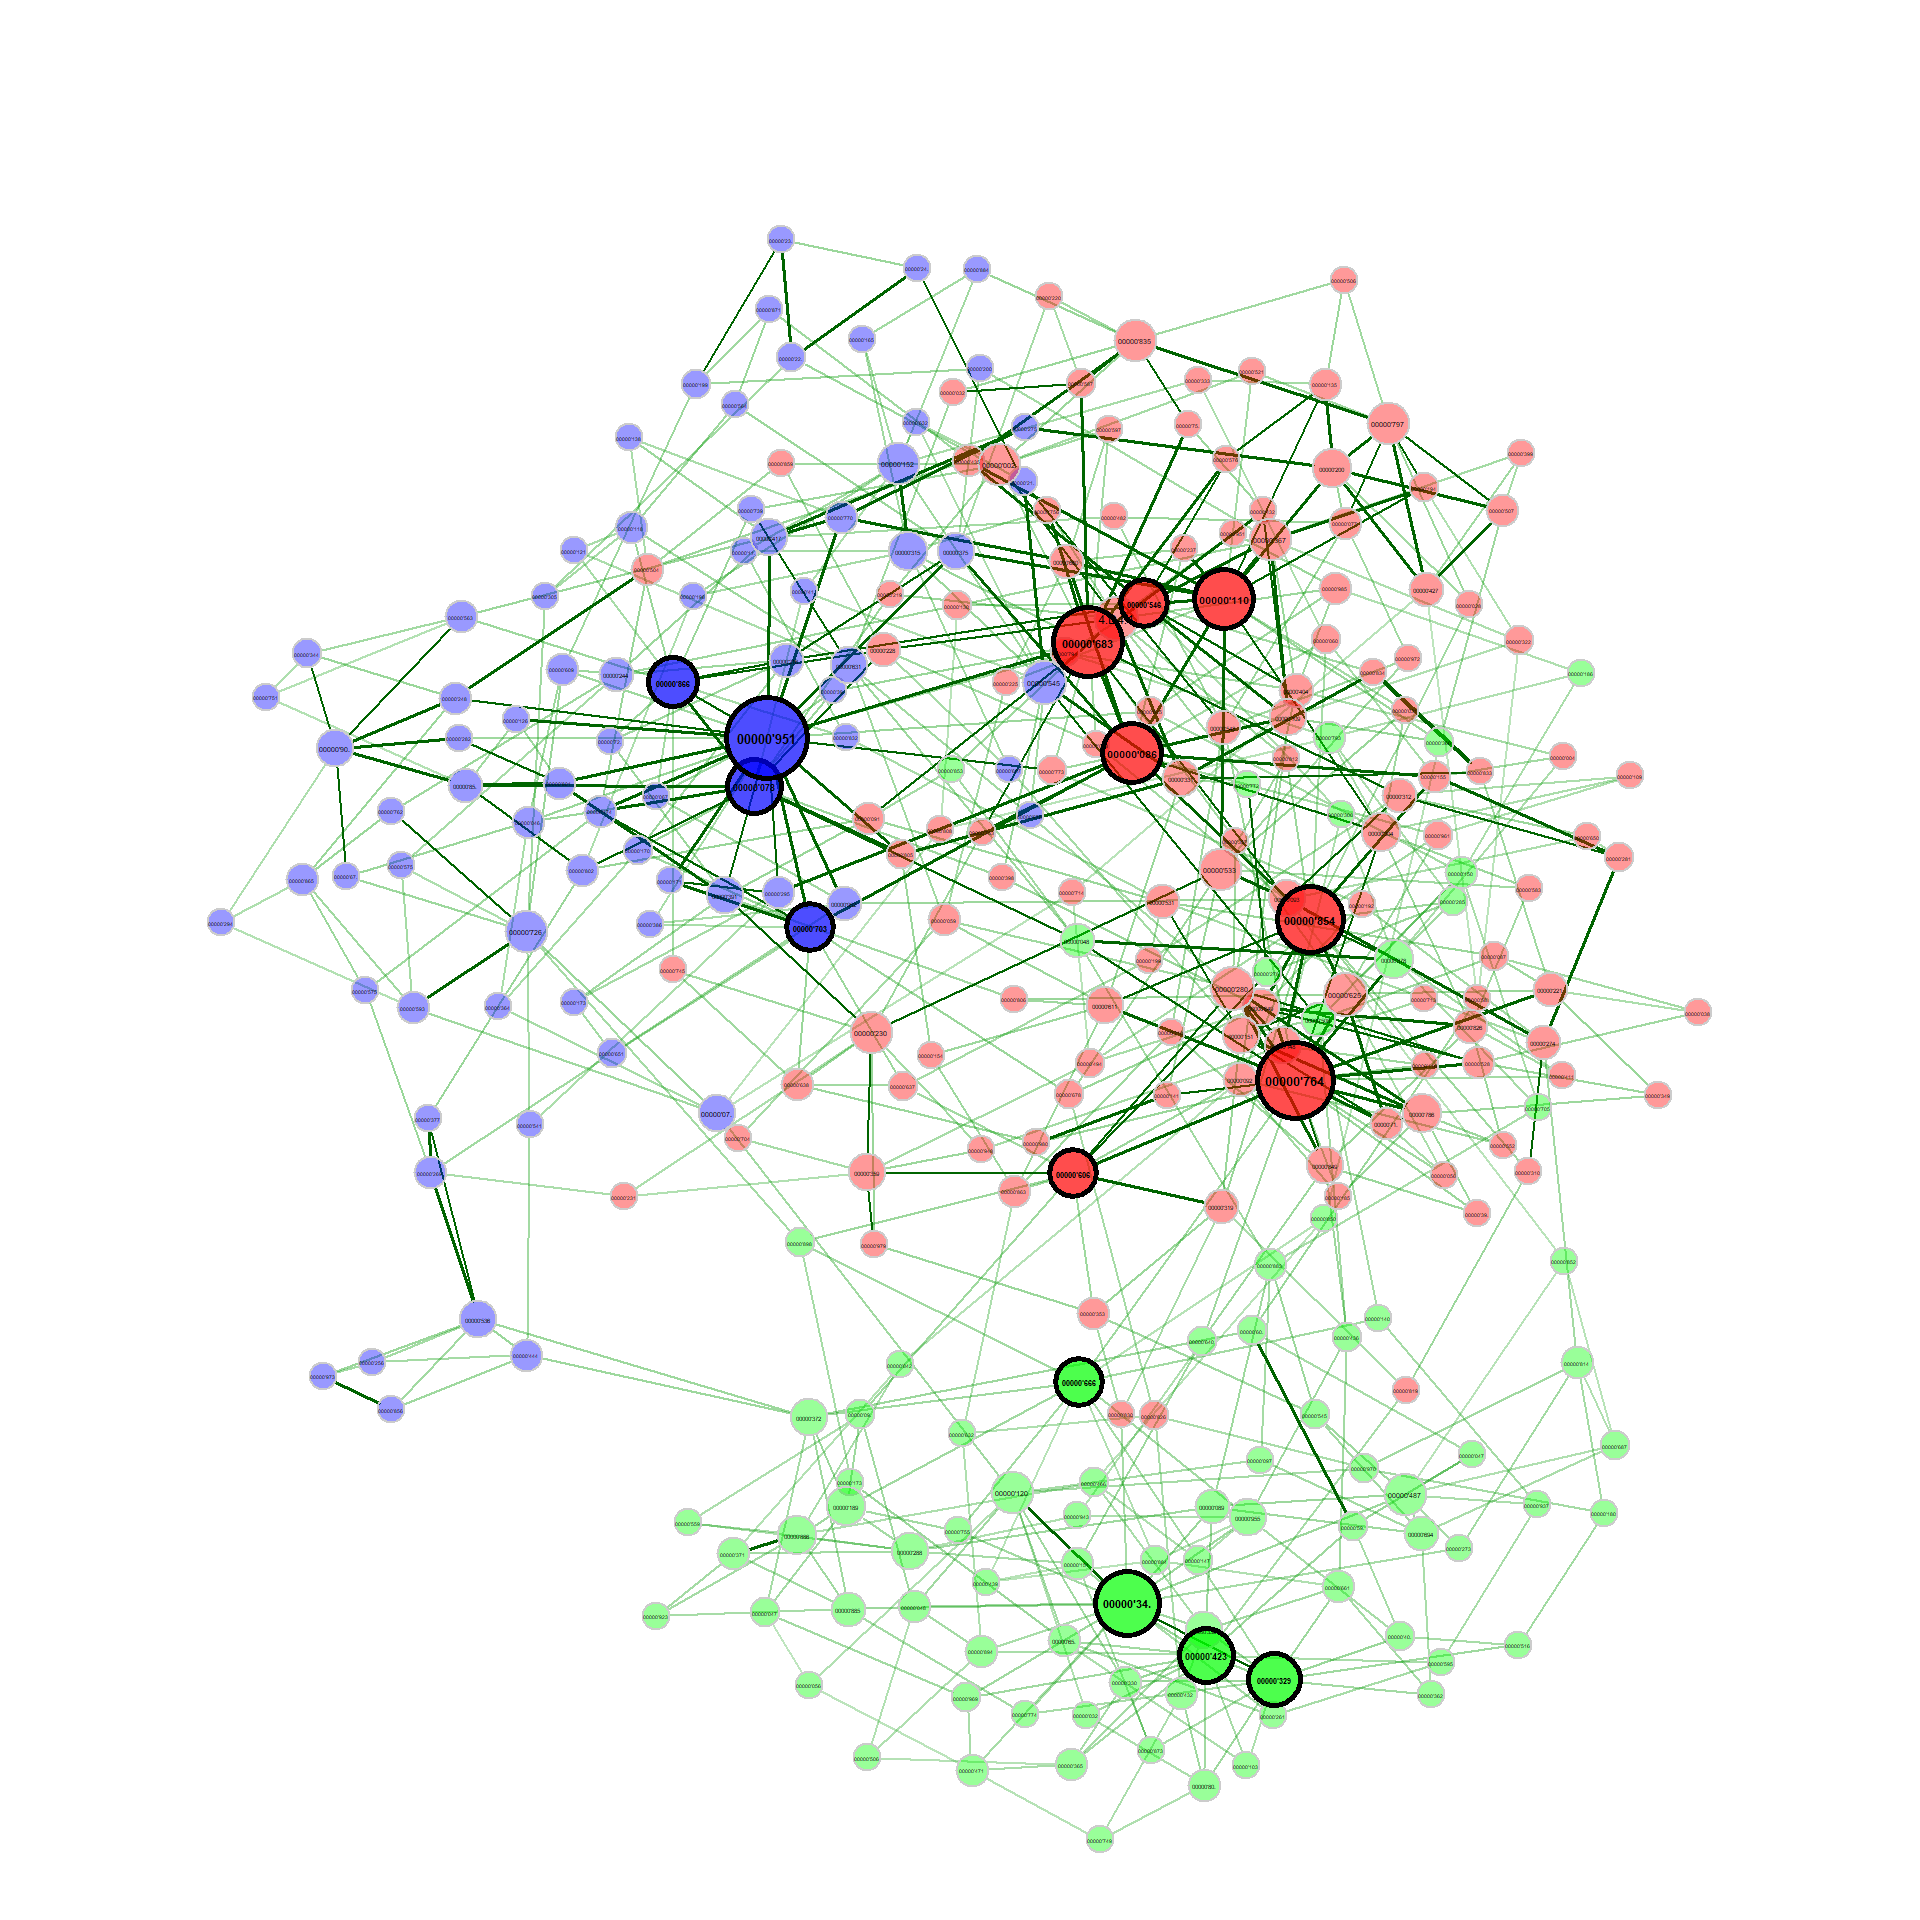
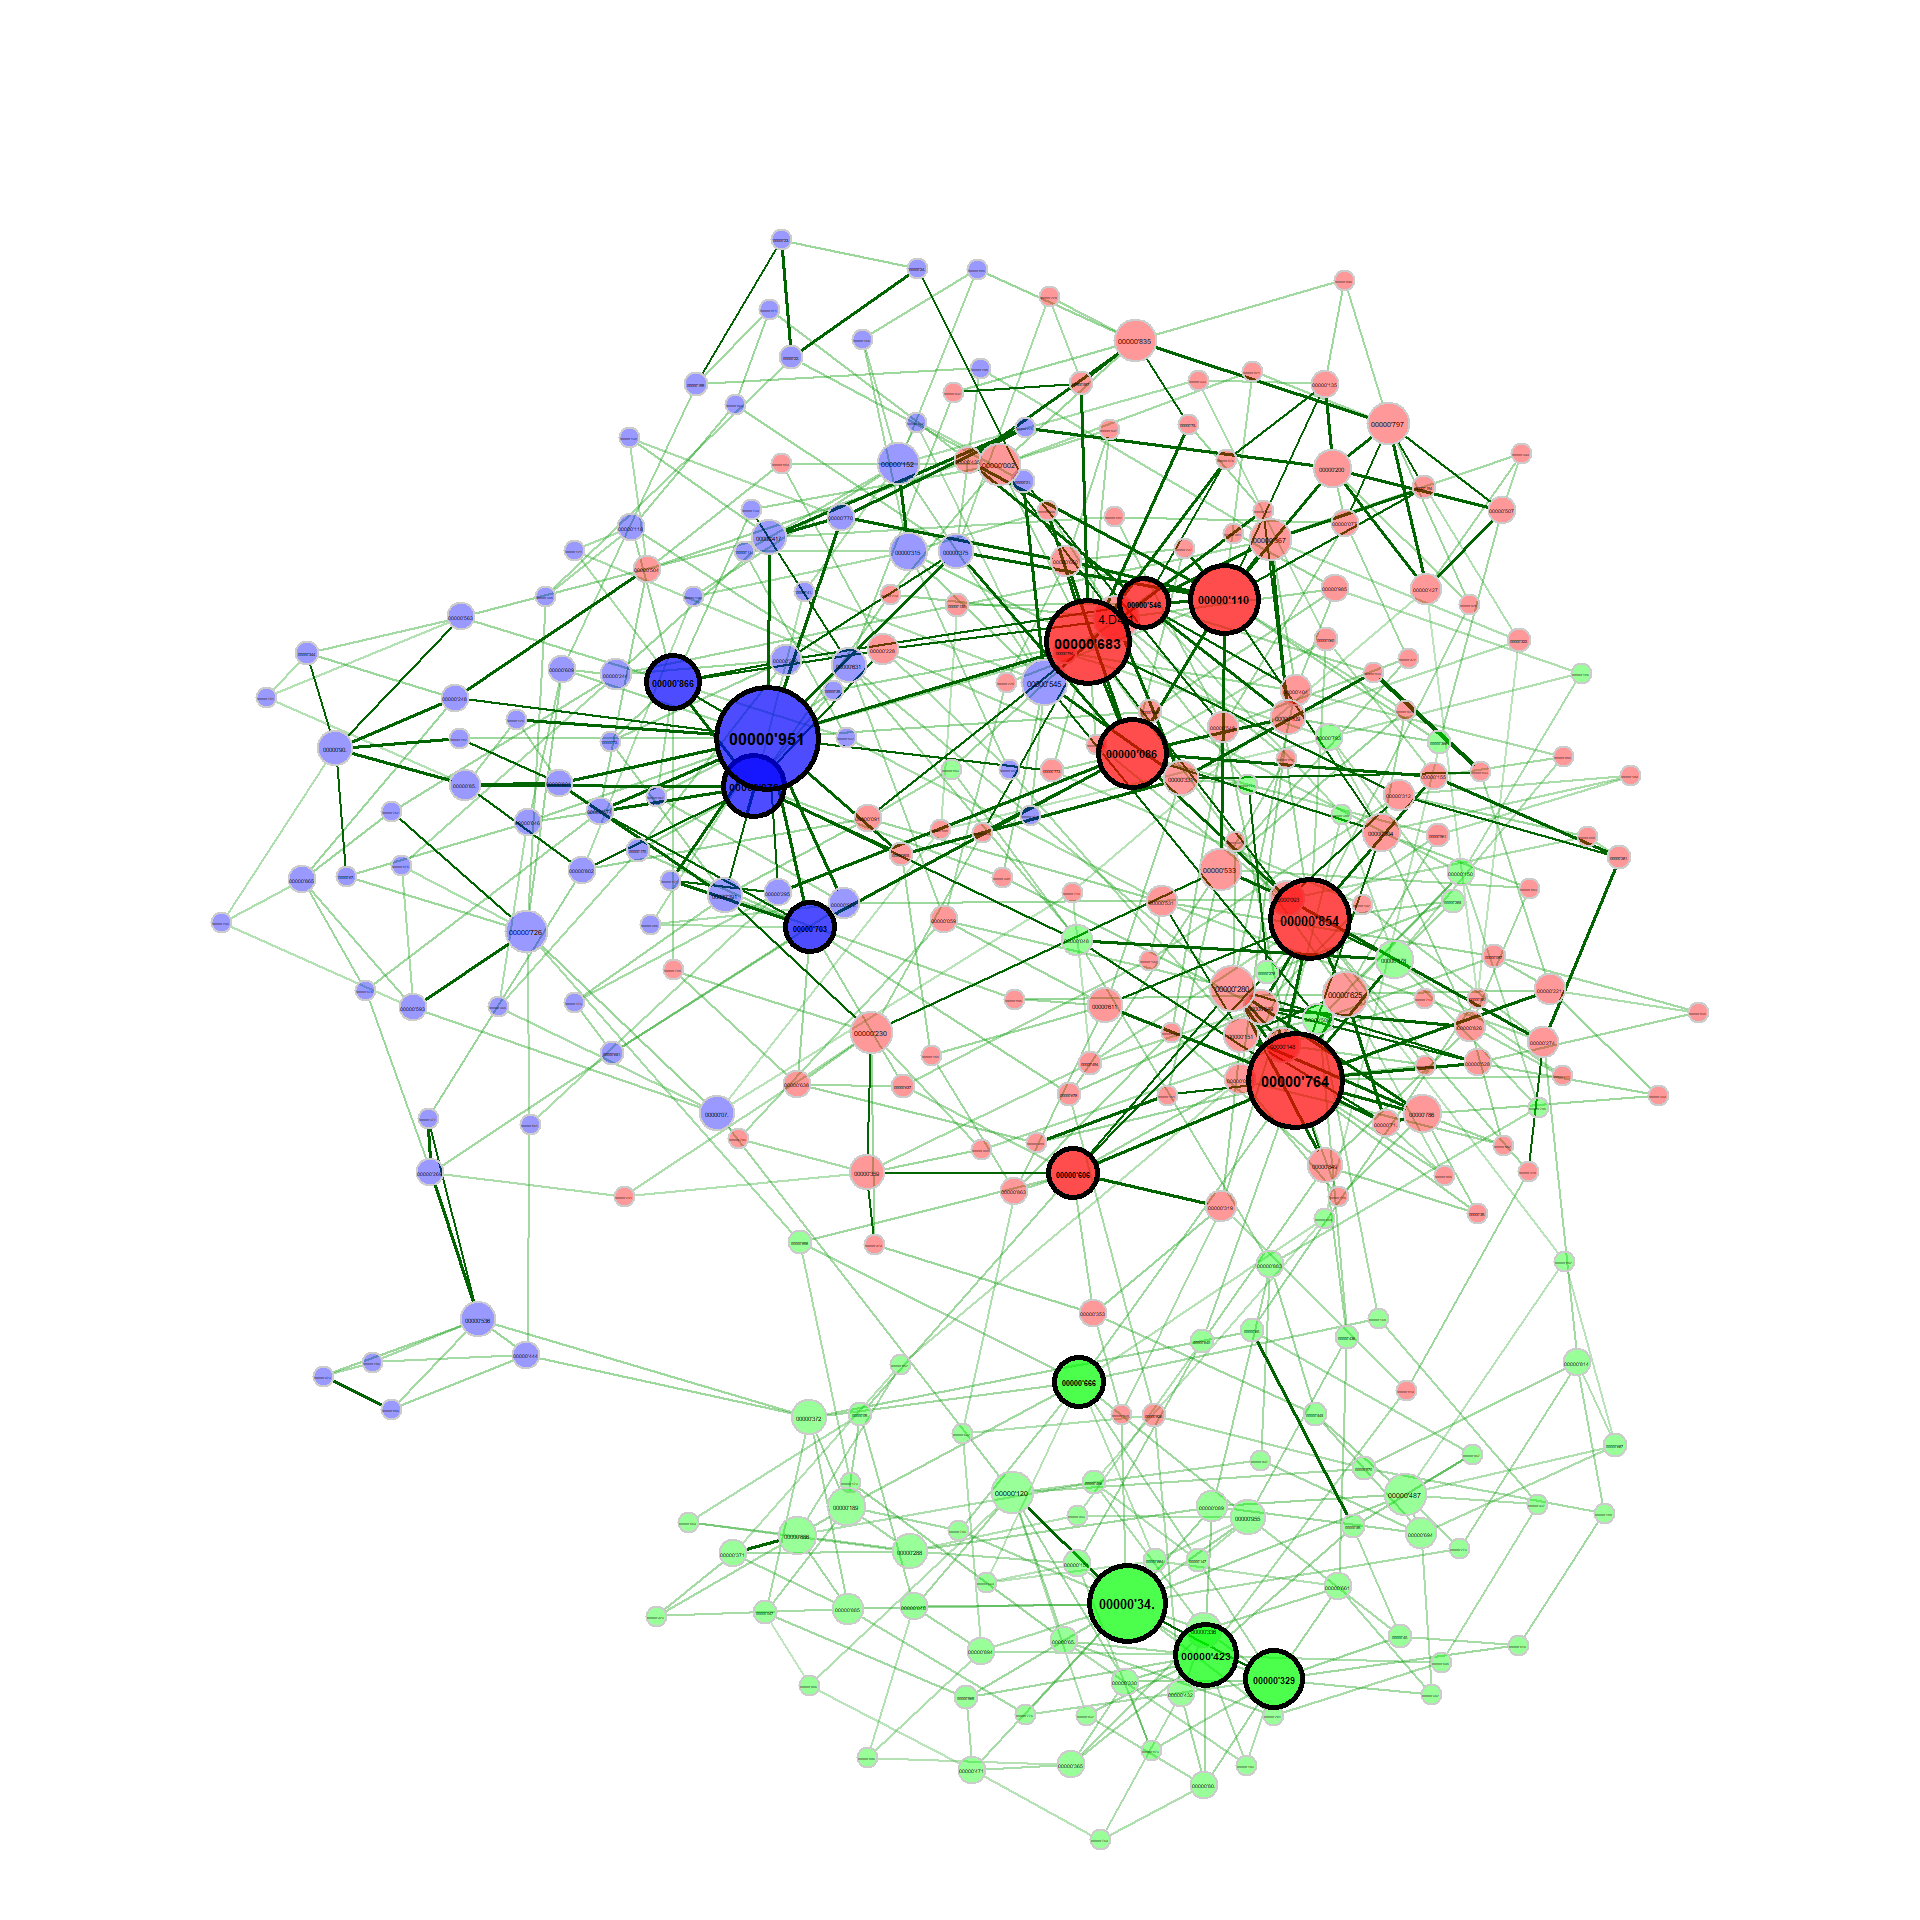
update readme file

diff --git a/readme.md b/readme.md
@@ -47,7 +47,7 @@ together with some information on the implementation in R.
     package)
 -   SpiecEasi ([`SpiecEasi`](https://github.com/zdk123/SpiecEasi)
     package)
--   SPRING ([`SPRING`](https://github.com/zdk123/SpiecEasi) package)
+-   SPRING ([`SPRING`](https://github.com/GraceYoon/SPRING) package)
 -   gCoda ([R script on GitHub](https://github.com/huayingfang/gCoda))
 -   propr
     ([`propr`](https://cran.r-project.org/web/packages/propr/index.html)
@@ -185,7 +185,73 @@ Clusters are identified using greedy modularity optimization (by
 
 ``` r
 props_single <- netAnalyze(net_single, clustMethod = "cluster_fast_greedy")
+
+summary(props_single, numbNodes = 5L)
 ```
+
+    ## 
+    ## Global network properties:
+    ## ``````````````````````````
+    ##                              
+    ## average path length   2.21645
+    ## clustering coeff.     0.31939
+    ## modularity            0.80313
+    ## edge density          0.01425
+    ## vertex connectivity   0.00000
+    ## edge connectivity     0.00000
+    ## 
+    ## 
+    ## Clusters:
+    ## `````````
+    ##                                              
+    ## name:  0  1  2 3  4  5 6 7 8 9 10 11 12 13 14
+    ## freq: 34 15 12 9 15 12 8 6 3 2  2  2  2  3  2
+    ## 
+    ## 
+    ## Hubs (in alphabetical/numerical order):
+    ## `````         
+    ##  "165261"
+    ##  "288710"
+    ##  "292134"
+    ##  "301645"
+    ##  "302025"
+    ##  "305760"
+    ##  "469991"
+    ## 
+    ## 
+    ## Centrality measures (in decreasing order):
+    ## ```````````````````
+    ## Degree:
+    ##               
+    ## 246752 0.04762
+    ## 288710 0.04762
+    ## 301645 0.04762
+    ## 329096 0.04762
+    ## 292134 0.04762
+    ## 
+    ## Betweenness centrality:
+    ##               
+    ## 329096 0.02463
+    ## 288710 0.02425
+    ## 305760 0.01867
+    ## 364563 0.01829
+    ## 469991 0.01333
+    ## 
+    ## Closeness centrality:
+    ##               
+    ## 288710 0.23454
+    ## 329096 0.23366
+    ## 292134 0.23226
+    ## 301645 0.22453
+    ## 305760 0.22084
+    ## 
+    ## Eigenvector centrality:
+    ##               
+    ## 288710 1.00000
+    ## 292134 0.98895
+    ## 165261 0.86250
+    ## 301645 0.85609
+    ## 469991 0.81980
 
 **Visualize the network**
 
@@ -314,7 +380,8 @@ props_season <- netAnalyze(net_season, clustMethod = "cluster_fast_greedy")
 
 plot(props_season, sameLayout = TRUE, layoutGroup = 1,
      nodeSize = "eigenvector", cexNodes = 1.5, cexLabels = 1.8,
-     groupNames = c("Seasonal allergies", "No seasonal allergies"))
+     groupNames = c("Seasonal allergies", "No seasonal allergies"),
+     hubBorderCol  = "gray40")
 ```
 
 ![](readme_files/figure-markdown_github/example8-1.png)
@@ -326,7 +393,8 @@ networks are removed).
 ``` r
 plot(props_season, rmSingles = "inboth", sameLayout = TRUE, layoutGroup = 1,
      nodeSize = "eigenvector", cexNodes = 1.5, cexLabels = 1.8,
-     groupNames = c("Seasonal allergies", "No seasonal allergies"))
+     groupNames = c("Seasonal allergies", "No seasonal allergies"),
+     hubBorderCol  = "gray40")
 ```
 
 ![](readme_files/figure-markdown_github/example8_2-1.png)
@@ -357,11 +425,11 @@ summary(comp_season, showCentr = c("degree", "eigen"), numbTaxa = 5)
     ## Jaccard index (similarity betw. sets of most central nodes):
     ## `````````````
     ##                     Jacc   P(<=Jacc)     P(>=Jacc)   
-    ## degree             0.300   0.5592643     0.7008586   
-    ## betweenness centr. 0.538   0.9653452     0.1035392   
-    ## closeness centr.   0.467   0.9117684     0.2030389   
-    ## eigenvec. centr.   0.222   0.2310724     0.8983349   
-    ## hub taxa           0.000   0.0877915 .   1.0000000   
+    ## degree             0.300    0.559264      0.700859   
+    ## betweenness centr. 0.538    0.965345      0.103539   
+    ## closeness centr.   0.467    0.911768      0.203039   
+    ## eigenvec. centr.   0.222    0.231072      0.898335   
+    ## hub taxa           0.000    0.087791 .    1.000000   
     ## -----
     ## Jaccard index ranges from 0 (compl. different) to 1 (sets equal)
     ## 
@@ -387,23 +455,33 @@ summary(comp_season, showCentr = c("degree", "eigen"), numbTaxa = 5)
     ## p-value: two-tailed test with null hypothesis ARI=0
     ## 
     ## 
-    ## Centrality measures (sorted by decreasing diff.):
+    ## Centrality measures (sorted by decreasing difference):
     ## ````````````````````
     ## Degree:
-    ##        group '1' group '2' difference
+    ##        group '1' group '2' abs. diff.
     ## 188236     0.048     0.167      0.119
     ## 326977     0.000     0.071      0.071
     ## 259569     0.095     0.024      0.071
     ## 469709     0.000     0.048      0.048
     ## 158660     0.024     0.071      0.048
+    ## 10116      0.024     0.071      0.048
+    ## 184983     0.071     0.119      0.048
+    ## 363302     0.048     0.095      0.048
+    ## 364563     0.119     0.071      0.048
+    ## 470239     0.048     0.000      0.048
     ## 
     ## Eigenvector centrality:
-    ##        group '1' group '2' difference
+    ##        group '1' group '2' abs. diff.
     ## 322235     0.058     0.704      0.646
     ## 188236     0.359     1.000      0.641
     ## 184983     0.227     0.819      0.592
     ## 364563     0.756     0.178      0.578
     ## 326977     0.000     0.470      0.470
+    ## 158660     0.020     0.486      0.466
+    ## 363302     0.090     0.511      0.421
+    ## 301645     0.729     0.339      0.390
+    ## 9715       1.000     0.700      0.300
+    ## 469709     0.000     0.300      0.300
     ## 
     ## --------------------------------------------------------
     ## Significance codes: ***: 0.001, **: 0.01, *: 0.05, .: 0.1
@@ -440,11 +518,7 @@ diff_season2 <- diffnet(net_season2, diffMethod = "fisherTest", adjust = "lfdr")
     ## Done.
 
 ``` r
-<<<<<<< Updated upstream
 plot(diff_season2, cexNodes = 0.8, cexLegend = 0.8, mar = c(7,7,7,10))
-=======
-plot(diff_season2, mar = c(2,1,7,7))
->>>>>>> Stashed changes
 ```
 
 ![](readme_files/figure-markdown_github/example11-1.png)
@@ -526,8 +600,8 @@ nclust <- as.numeric(max(names(table(netprops1$clustering$clust1))))
 col <- topo.colors(nclust)
 
 plot(netprops1, sameLayout = TRUE, layoutGroup = 1, colorVec = col,
-     borderCol = "gray40", nodeSize = "degree", cexNodes = 35, 
-     nodeSizeSpread = 0.1, edgeTranspLow = 80, edgeTranspHigh = 50,
+     borderCol = "gray40", nodeSize = "degree", cexNodes = 0.9, 
+     nodeSizeSpread = 3, edgeTranspLow = 80, edgeTranspHigh = 50,
      groupNames = c("Warming", "Non-warming"), showTitle = TRUE, cexTitle = 1.5,
      mar = c(1,1,3,1), repulsion = 0.9, labels = FALSE, rmSingles = "inboth",
      nodeFilter = "clustMin", nodeFilterPar = 10, 
